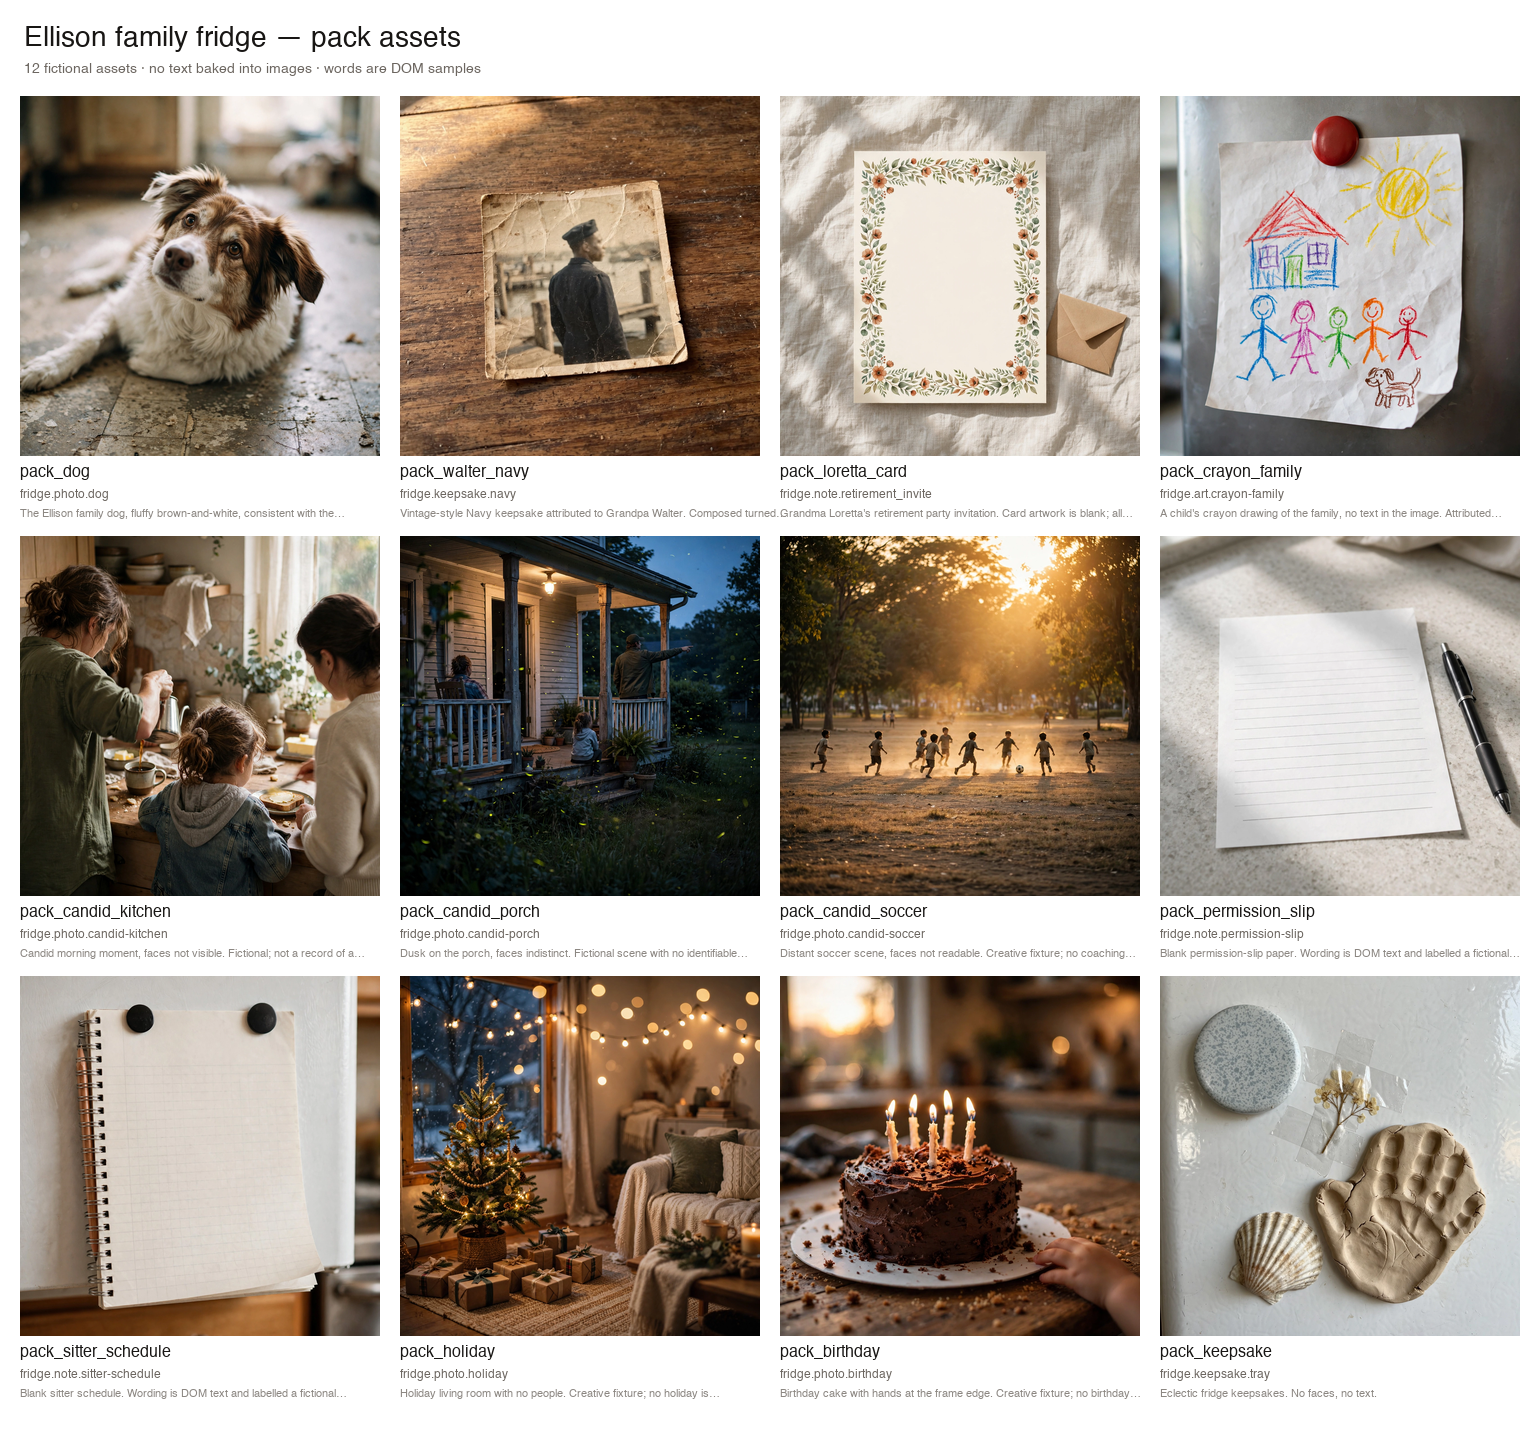
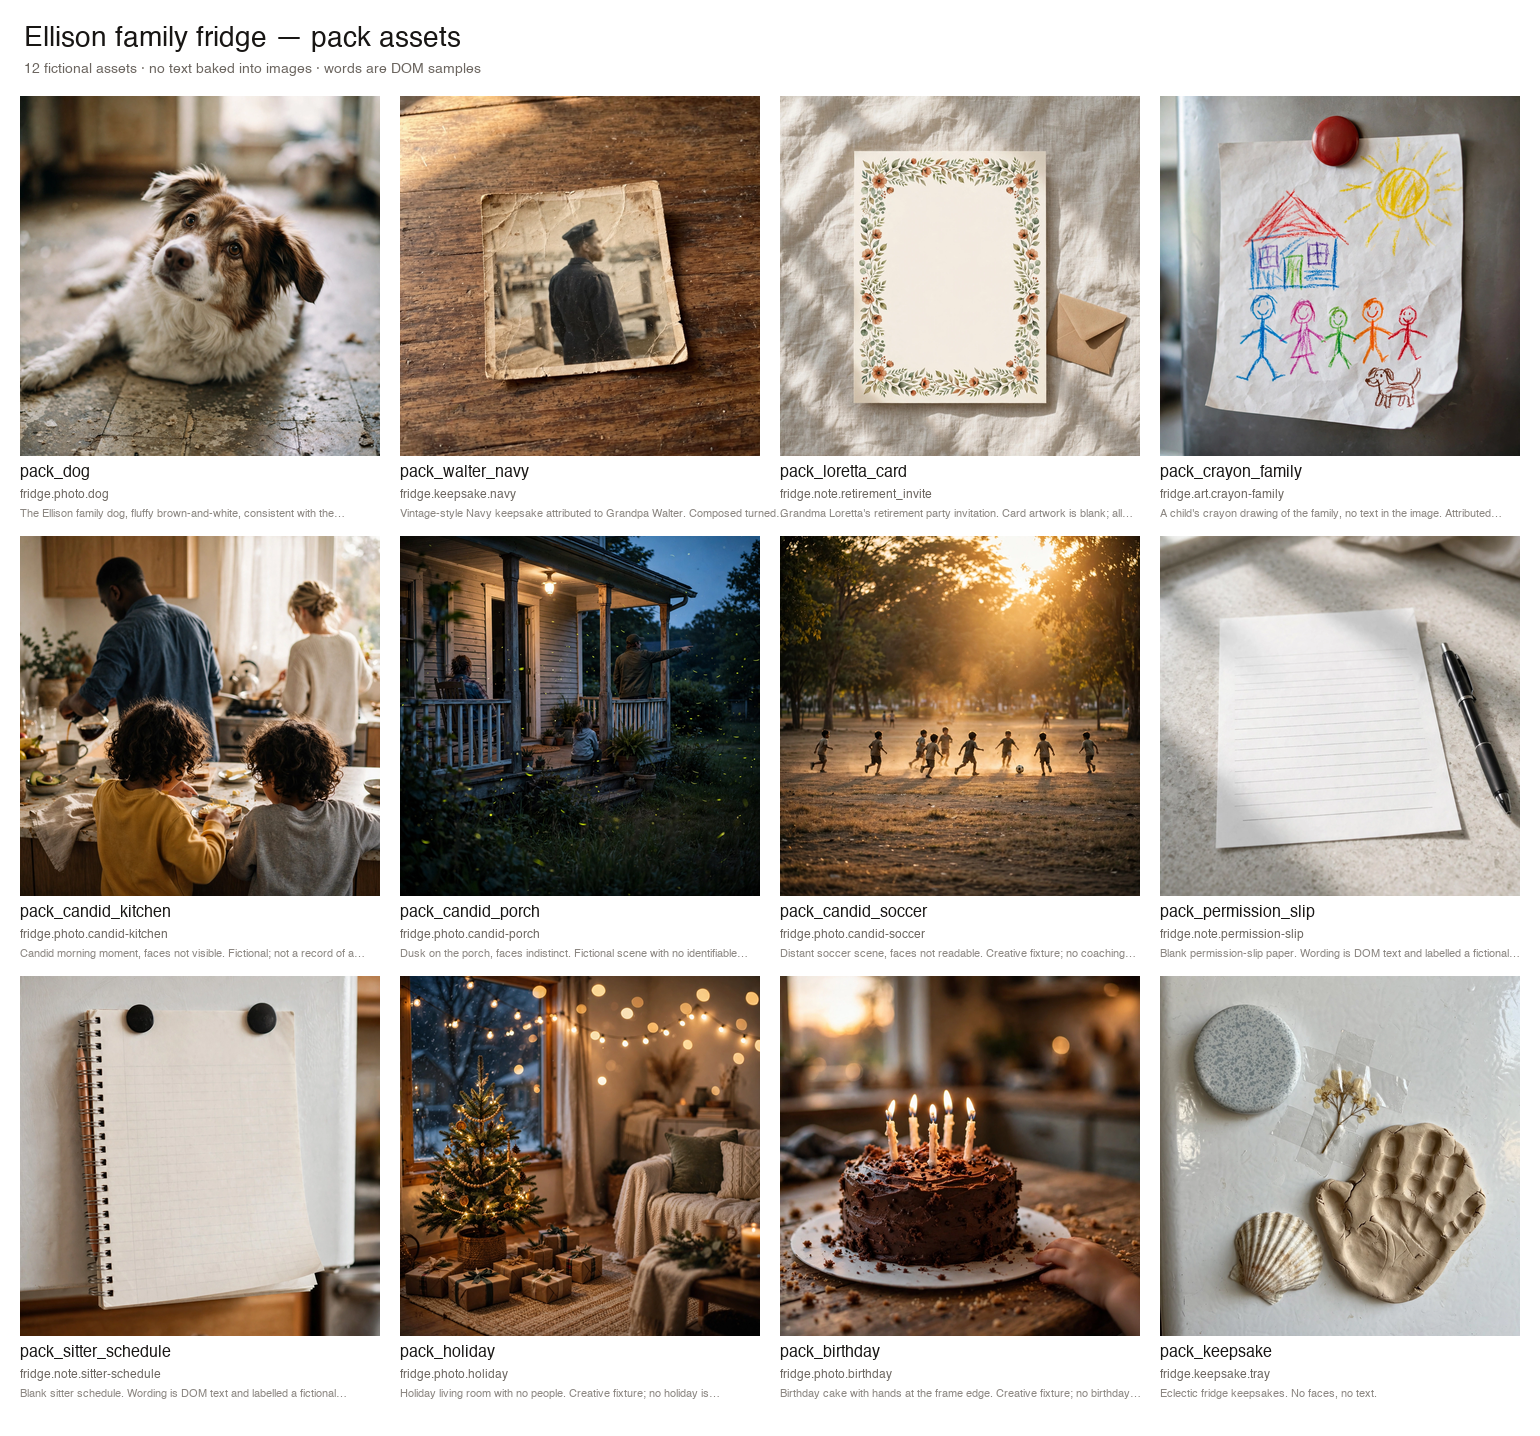
docs(portraits): approved re-prompts — Loretta, Gary, Carol and Ellison kitchen candid (#154)

Changed region(s): [[0.0, 0.3677, 0.2494, 0.6435]]

diff --git a/docs/handoff/portraits-prep.md b/docs/handoff/portraits-prep.md
@@ -258,11 +258,11 @@ used or is automatic.
 | --- | --- |
 | Portraits returned | **37** (3 pilot + 34 new) |
 | Fridge-pack assets returned | **12** |
-| Total images returned | **49** |
-| Requests made | **49** |
+| Total images delivered | **49** |
+| Generation calls | **53** (49 delivered + 4 re-prompts) |
 | Retries | **0** |
 | Failed calls | **0** |
-| Cost | **$0.49** at $0.01/image (provider returned token usage, no price field) |
+| Cost | **$0.53** total at $0.01/image (49 delivered + 4 revisions; no price field in the response) |
 
 - Every portrait is 1024×1024; 384² downscales are staged alongside.
 - Assets, contact sheets, four mock compositions (desktop and phone, populated / empty / refused),
@@ -297,8 +297,8 @@ hashed and recorded.
 
 ## 8. Cost
 
-- **Actual: 49 images × $0.01 = $0.49**, zero retries (Bryan's stated price; no price field in the
-  provider response).
+- **Actual: 53 generation calls × $0.01 = $0.53** (49 delivered assets + 4 approved re-prompts),
+  zero retries (Bryan's stated price; no price field in the provider response).
 - **Hard cap: $10 total** for portraits and packs, separate from Wonder.
 - Any `usage` object returned by the provider is recorded verbatim in the provenance record.
 - If Muse disappoints, the result is reported and **GPT Image is a reviewed fallback Bryan decides

diff --git a/docs/evidence/154-portraits/README.md b/docs/evidence/154-portraits/README.md
@@ -8,9 +8,10 @@ consumers are untouched.**
   signed URL or raw base64 response is stored.
 - **37 portraits**, including the three approved pilot originals (Kendra, Nora, Loretta) reused
   unchanged.
-- **Cost: $0.49 CALCULATED** from the documented $0.01/image price. This is **not** an independently
-  verified billing figure; the provider response carries token usage and no price field.
-- **49 requests, zero failures** refers to this generation work. It is not a claim about any earlier
+- **Cost: $0.53 CALCULATED total** from the documented $0.01/image price — 49 delivered assets plus
+  4 revision calls (Loretta, Gary, Carol, kitchen candid). This is **not** an independently verified
+  billing figure; the provider response carries token usage and no price field.
+- **53 generation calls, zero failures** — 49 delivered assets plus 4 re-prompts. It is not a claim about any earlier
   attempt. A prior run reported 401 `invalid_api_key` from `api.meta.ai` using the `META_API_KEY`
   variable name; no request ids or timestamps were captured here, so those attempts are preserved
   as reported history **separately**, and are not included in the 49.
